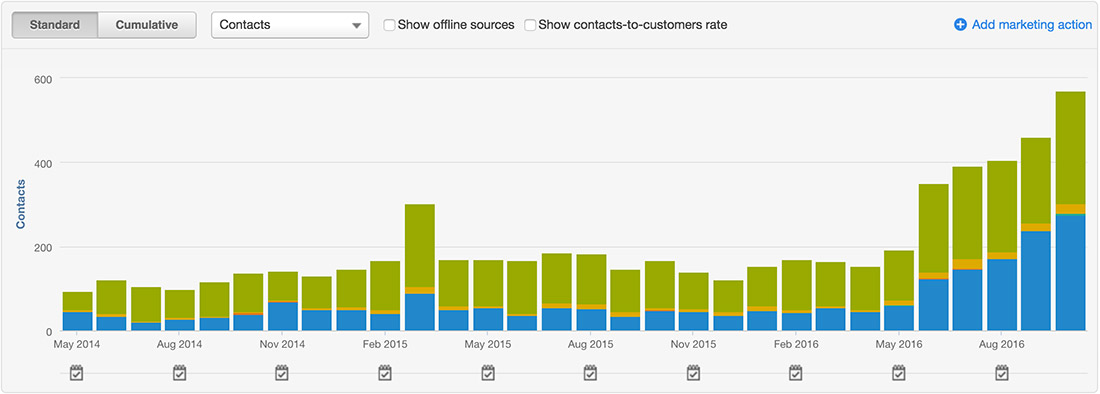
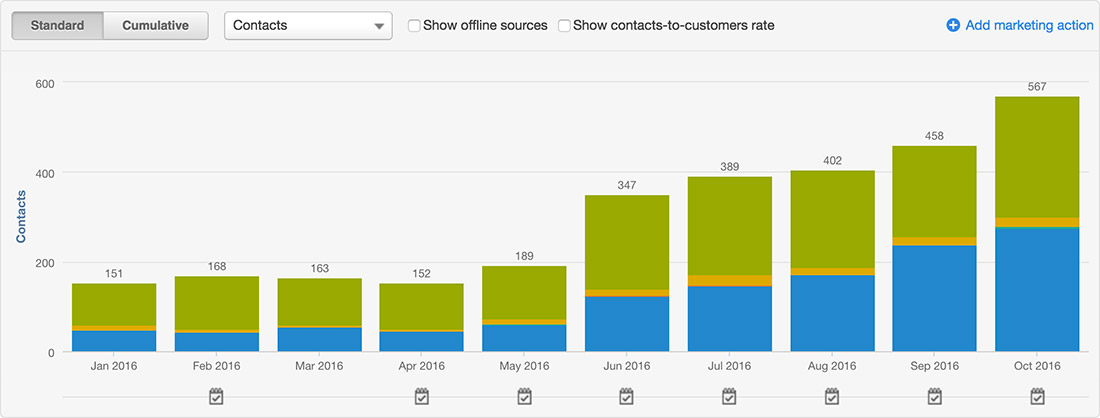
Published Inbound blog post and added tweet button.

diff --git a/hylok-gdd.html b/hylok-gdd.html
@@ -7,13 +7,13 @@ permalink: /gdd-case-study-hylok/
 
 
 <div>
-	<p>Over the past year, we at Results-Powered Marketing (the agency I work for) have integrated Growth-Driven Design into our approach to building and maintaining websites. For those unfamiliar, GDD is an agile approach applied to the website development process — the goal is to get something out the door as soon as possible, test, iterate, and keep making tweaks to drive better and stronger results for our clients.
+	<p>Over the past year, we at <a href="http://rpm.thomasnet.com" target="_blank">Results-Powered Marketing</a> (the agency I work for) have integrated Growth-Driven Design into our approach to building and maintaining websites. For those unfamiliar, GDD is an agile approach applied to the website development process — the goal is to get something out the door as soon as possible, test, iterate, and keep making tweaks to drive better and stronger results for our clients.
 </p>
 
 <p><b>In this specific case study, we were able to increase our client's new monthly leads generated by 278%.</b></p>
 
 <figure><img src="{{ site.baseurl }}/img/leads-generated-graph.jpg" alt="Leads Generated Graph">
-<figcaption>Monthly new leads generated graph via HubSpot - May 2014 to October 2016</figcaption>
+<figcaption>Monthly new leads generated graph via HubSpot - January 2016 to October 2016</figcaption>
 </figure>
 
 <p>Hy-Lok USA came to RPM three years ago to take advantage of the team’s marketing and industrial expertise to grow their marketing, lead generation, and subsequently, sales. In spring of 2015, our team launched a new website and saw a small bump in new leads generated.</p>
@@ -124,13 +124,16 @@ The fitting catalogs were being gated by the traditional landing page. This mean
 
 <p>Similar to how a responsive website traditionally adjusts depending on the width of a device/browser with media queries, we can also adjust the size of the website depending on the height. This can be done with the help of vertical media queries, which is an often overlooked aspect of responsive websites. We simply lowered the body font-size by 25% for anyone on a browser with a height that was less than 640 pixels without having to resize every individual element. This proportionately reduced the size of every element on the page to the following:</p>
 
-<h3>Home</h3>
 
-<figure><img src="{{ site.baseurl }}/img/home-vertical-media-queries.jpg" alt="Home Media Queries"></figure>
+<figure><img src="{{ site.baseurl }}/img/home-vertical-media-queries.jpg" alt="Home Media Queries">
+<figcaption>Home</figcaption>
+</figure>
 
-<h3>Valves</h3>
 
-<figure><img src="{{ site.baseurl }}/img/valves-media-queries.jpg" alt="Valves Media Queries"></figure>
+
+<figure><img src="{{ site.baseurl }}/img/valves-media-queries.jpg" alt="Valves Media Queries">
+
+<figcaption>Valves</figcaption></figure>
 
 <p>Now in both windows, the CTAs are fully visible and the distributor locator section/links are now in the viewport. With this improvement, we were able to increase the engagement with the distributor locator by 24%, CTA engagement by 10.7%, and overall new leads generated by 3.4%.</p>
 

diff --git a/_layouts/home.html b/_layouts/home.html
@@ -30,6 +30,23 @@ layout: home
     });
   } catch (e) {}
   </script>
+  <script>
+window['_fs_debug'] = false;
+window['_fs_host'] = 'www.fullstory.com';
+window['_fs_org'] = 'TKJM';
+window['_fs_namespace'] = 'FS';
+(function(m,n,e,t,l,o,g,y){
+    if (e in m && m.console && m.console.log) { m.console.log('FullStory namespace conflict. Please set window["_fs_namespace"].'); return;}
+    g=m[e]=function(a,b){g.q?g.q.push([a,b]):g._api(a,b);};g.q=[];
+    o=n.createElement(t);o.async=1;o.src='https://'+_fs_host+'/s/fs.js';
+    y=n.getElementsByTagName(t)[0];y.parentNode.insertBefore(o,y);
+    g.identify=function(i,v){g(l,{uid:i});if(v)g(l,v)};g.setUserVars=function(v){g(l,v)};
+    g.identifyAccount=function(i,v){o='account';v=v||{};v.acctId=i;g(o,v)};
+    g.clearUserCookie=function(c,d,i){if(!c || document.cookie.match('fs_uid=[`;`]*`[`;`]*`[`;`]*`')){
+    d=n.domain;while(1){n.cookie='fs_uid=;domain='+d+
+    ';path=/;expires='+new Date(0).toUTCString();i=d.indexOf('.');if(i<0)break;d=d.slice(i+1)}}};
+})(window,document,window['_fs_namespace'],'script','user');
+</script>
 </head>
 
 <body>

diff --git a/_layouts/post.html b/_layouts/post.html
@@ -21,6 +21,14 @@ layout: post
 <section class="site-content" role="main">
 <div class="inner-wrap-narrow">
 {{ content }}
+
+<a href="https://twitter.com/share" class="twitter-share-button" data-show-count="false">Tweet</a><script async src="//platform.twitter.com/widgets.js" charset="utf-8"></script>
+
+<hr>
+
+<p> I'm Julian, the Design/Development Director at <a href="http://rpm.thomasnet.com" target="_blank">Results-Powered Marketing</a>. Let's talk &ndash; you can reach out to me on <a href="https://twitter.com/juliangav" class="ico-twitter" target="_blank">Twitter</a> or <a href="https://www.linkedin.com/in/juliangaviria" target="_blank" class="ico-linkedin">LinkedIn</a>.</p>
+
+
 </div>
 </section>
 

diff --git a/_posts/2016-11-13-hubspot-inbound-2016-designers-perspective.md b/_posts/2016-11-13-hubspot-inbound-2016-designers-perspective.md
@@ -1,0 +1,59 @@
+---
+layout: post
+title:  "INBOUND 2016 &ndash; A Designer's Perspective with a Roundup of&nbsp;Tools"
+author: Julian Gaviria
+---
+
+It’s difficult for some folks to see the value in a designer attending a marketing conference such as <a href="http://www.inbound.com/" target="_blank">INBOUND 2016</a>, but anyone with a decent understanding of design knows that with context, you create better work. The best designs were not put together by a designer working in isolation, the best designs were put together by a designer that was aware of the material and concept at hand with an understanding that went beyond the surface level. 
+
+Knowing how and why your marketing team does certain things and grasping concept of the marketing approach helps the designer make better decisions in her work that are inline with the goals of the entire team. 
+
+<h2>How to get the most out of INBOUND as a designer</h2>
+
+I go to conferences for two reasons, one to see what the pros are currently doing (whether it’s design, development or marketing) and two, to see what the rest community/attendees are currently innovating on (the golden nuggets of information). 
+
+The former is easy, just attend the talks of the most influential speakers that interest you. I usually go by Twitter followers and the company they represent. Fair warning, there are a handful of first time speakers that are rockstars in the making and it's not the wisest to dismiss them completely without doing your due diligence.
+
+The latter gets a bit more difficult since it requires you to leave your comfort zone and talk to people (this becomes extra challenging if you’re an introvert like myself). However, this is where I get the most out of INBOUND (3rd year attending); knowing how other teams interact, the tools they’re using, and the solutions and hacks to the same problems my team is facing, this is all useful information you normally wouldn’t get from scheduled talks. The same reason why Twitter is such a successful platform, you get access to the conversation of problems and their solutions happening in real time.
+
+
+<h2>Roundup of Tools</h2>
+
+Below is a list of all the tools I came across during talks, side conversations, &amp; as well as coworkers while at INBOUND 2016. 
+
+<h3><a href="https://usabilityhub.com/" target="_blank">Usability Hub</a></h3>
+
+Remote user testing that can help you quickley get answers for what otherwise would take weeks of testing. Credit to <a href="https://twitter.com/oligardner" target="_blank">@oligardner</a>.
+
+<h3><a href="https://readability-score.com/text/" target="_blank">Readability Score</a></h3>
+
+A readability score is a computer-calculated index which can tell you roughly what level of education someone will need to be able to read a piece of text easily. Credit to <a href="https://twitter.com/oligardner" target="_blank">@oligardner</a>.
+
+<h3><a href="http://www.hubspot.com/product-updates/introducing-hubdb" target="_blank">HubDB</a></h3>
+
+This is actually a HubSpot COS feature and not really a tool but worth mentioning. HubSpot has a great CMS tool called the HubSpot COS, but has lacked a database developers could access until now. Credit to <a href="https://twitter.com/gabewahhab" target="_blank">@gabewahhab</a>.
+
+<h3><a href="https://www.ghostery.com/try-us/download-browser-extension/" target="_blank">Ghostery</a></h3>
+
+A browser plugin that allows you to go incognito to web analytics. This is pretty useful to avoid skewing any analytics without having to block your IP on every service or every time you use a different internet connection. Credit to <a href="https://twitter.com/theardit" target="_blank">@theardit</a>.
+
+<h3><a href="https://www.usertesting.com/" target="_blank">User Testing</a></h3>
+
+Videos of real users and their feedback on your website or app. Credit to <a href="https://twitter.com/kyleplacy" target="_blank">@kyleplacy</a>.
+
+<h3><a href="https://x.ai/" target="_blank">x.ai</a></h3>
+
+An AI powered personal assistant with the ability to accurately schedule meetings for you. Credit to <a href="https://twitter.com/kyleplacy" target="_blank">@kyleplacy</a>.
+
+<h2>Featured Talk</h2>
+
+<h3>Content Comeback: How to Transform Freelance Chaos into a Kickass In-House Content Team &ndash; <a href="https://twitter.com/mikaelatierney" target="_blank">Mikaela Tierney</a></h3>
+
+One of the more popular talks of the conference, Mikaela breaks down the process to creating an in-house content writing team that produces awesome work. 
+
+
+Full disclosure, Mikaela actually works with me at Results-Powered Marketing. She has done a kickass job of transforming a content writing team that constantly missed deadlines and created subpar work into a group of rockstars that are now the golden child of the agency. 
+
+You can download her <a href="http://julian.is/files/content-comeback-hubspot-inbound-2016.pdf" target="_blank">slide deck here</a>.
+
+
